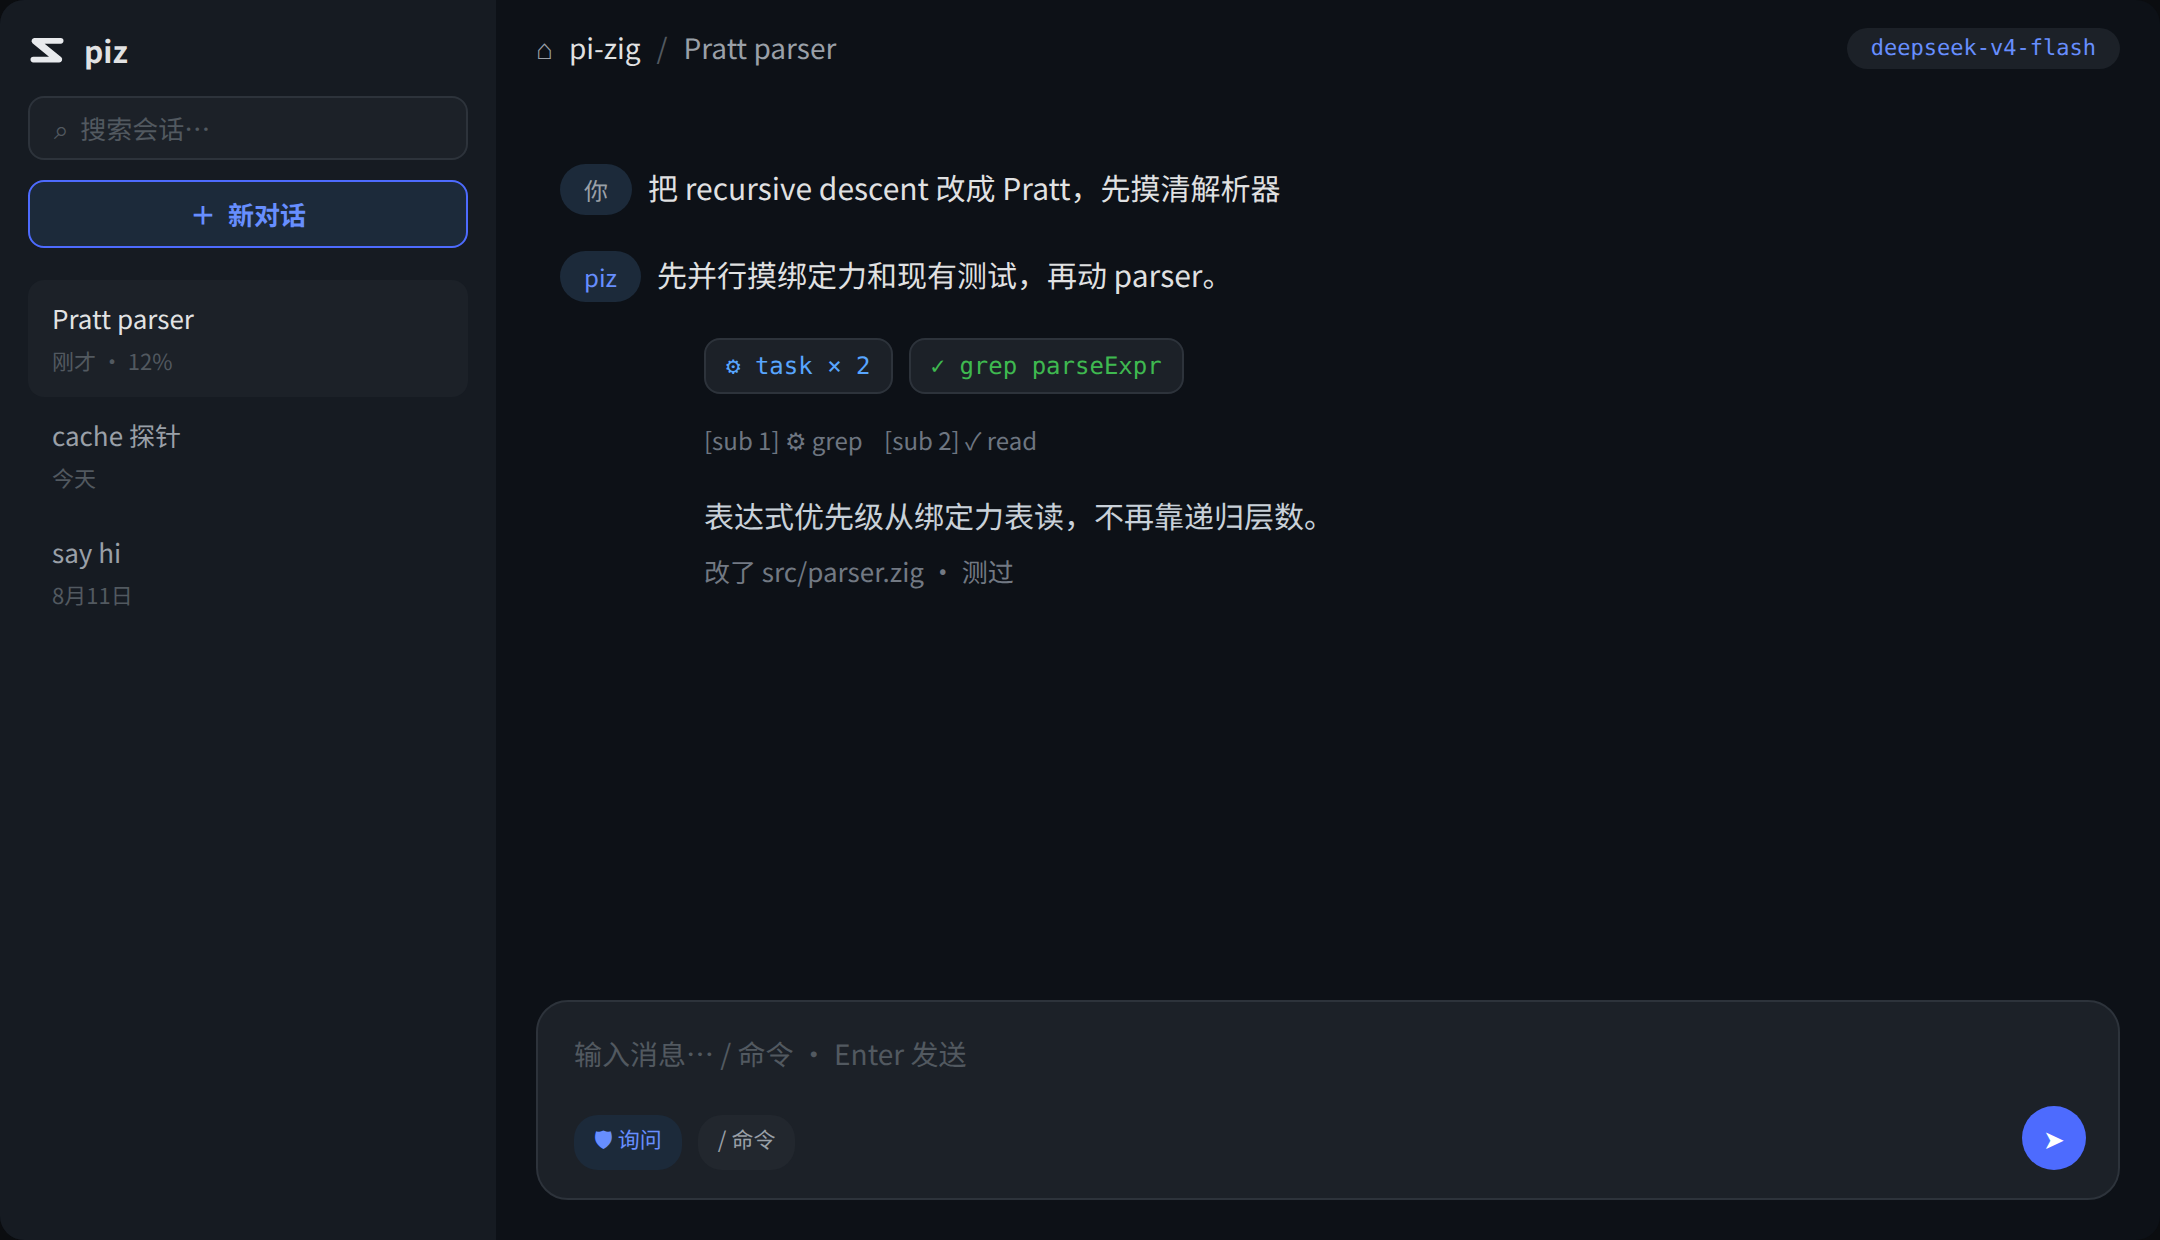
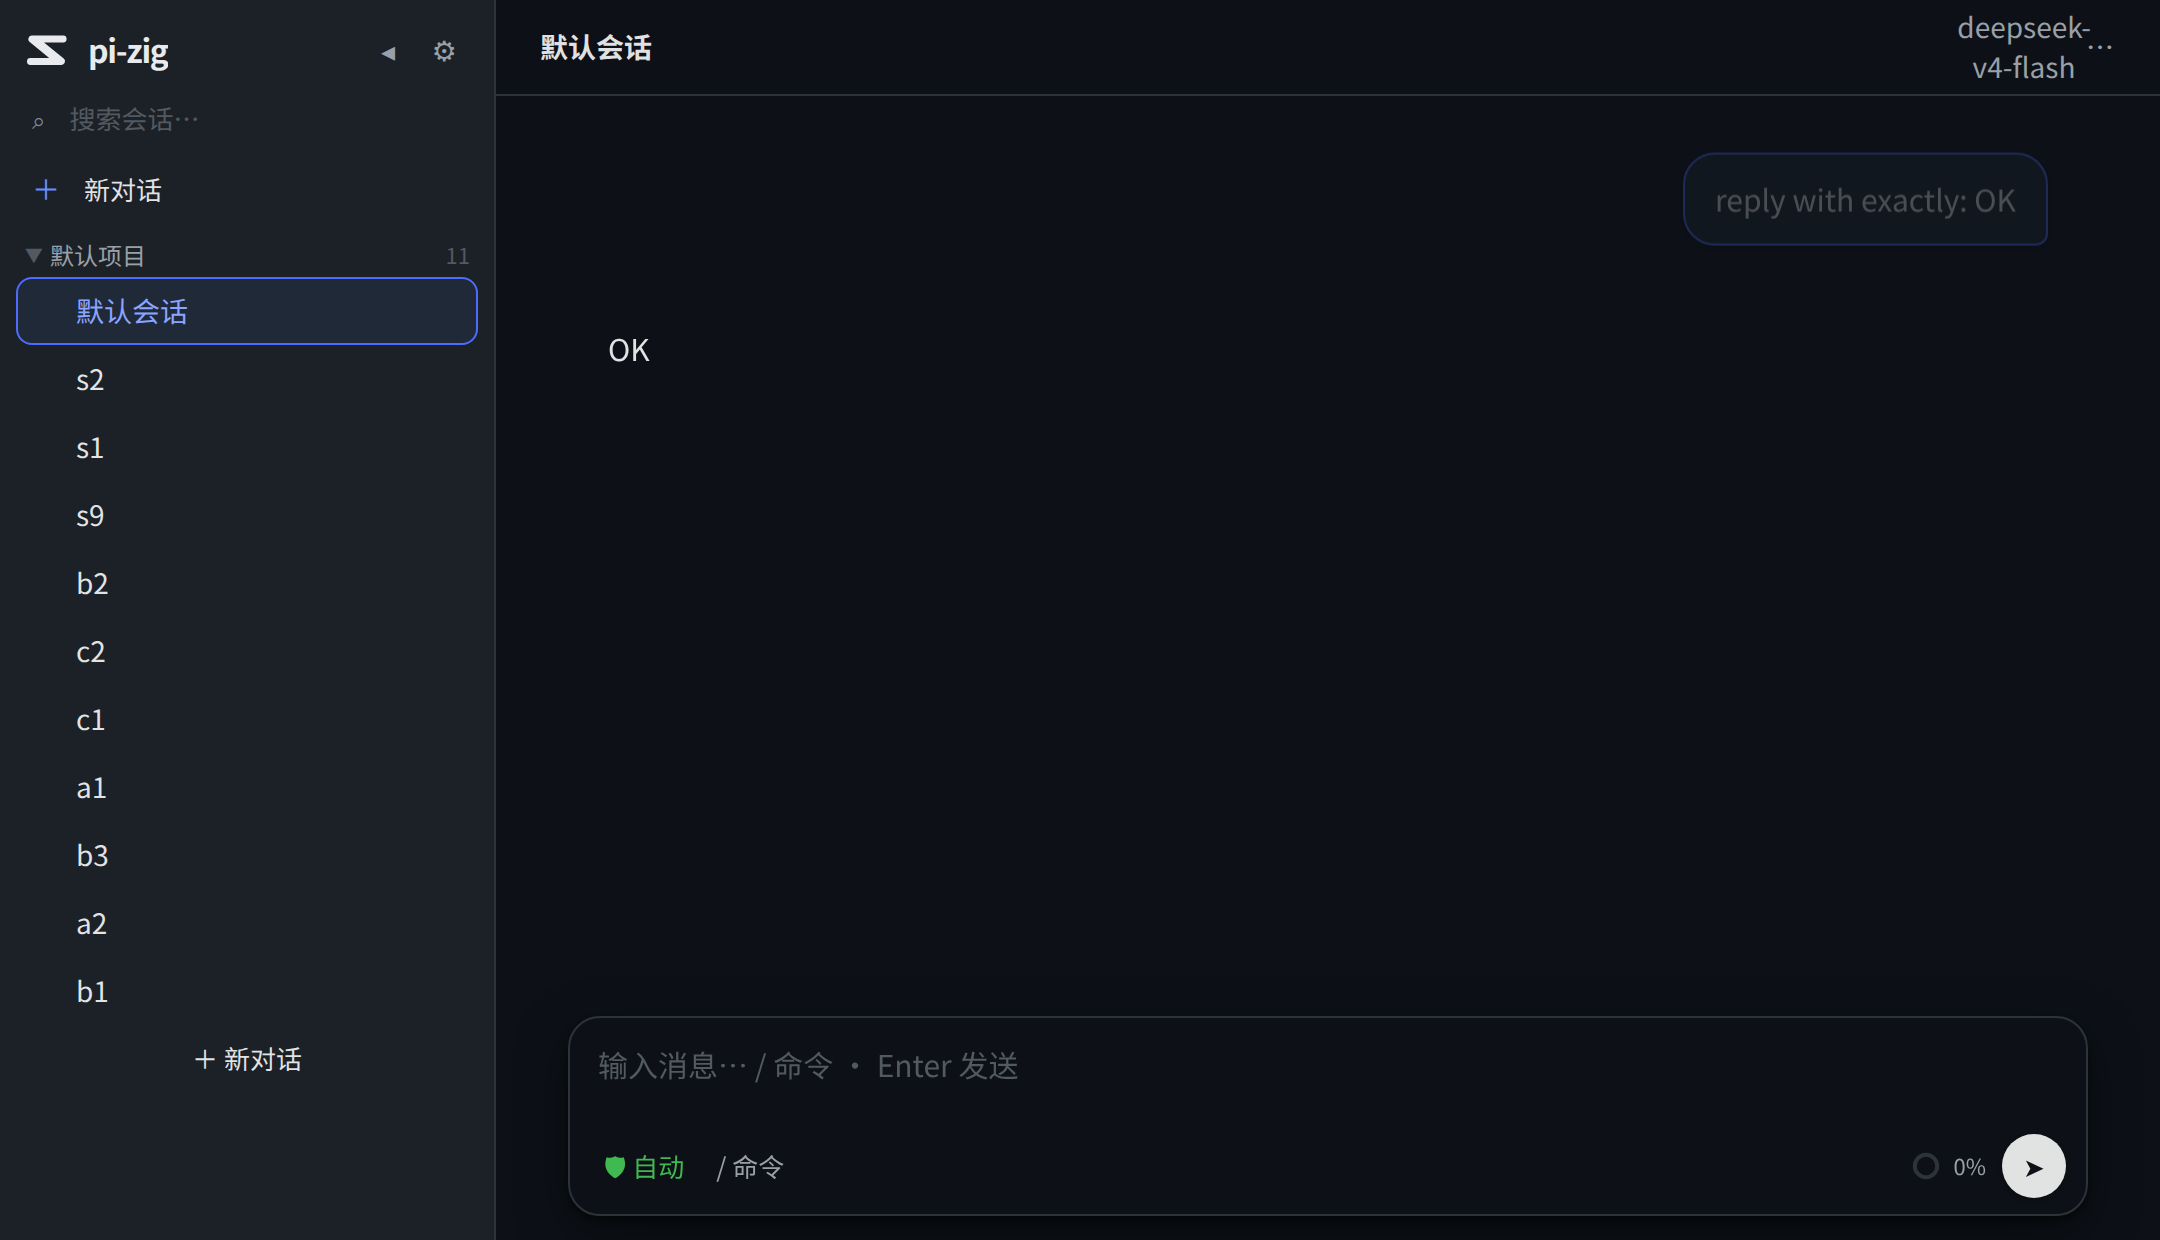
界面按那套审美改真 TUI / Web
权限门两行带色键,提示符用品牌蓝;Web 去掉输入框光晕,
空态不再写「AI 协作者」。web.png 是跑着的 piz web 截的。

diff --git a/src/webui.html b/src/webui.html
@@ -275,7 +275,7 @@
       ::-webkit-scrollbar-thumb:hover {
         background: var(--color-accent-bd);
       }
-      @keyframes kimi-bubble-in {
+      @keyframes bubble-in {
         from {
           opacity: 0;
           transform: translateY(6px);
@@ -886,7 +886,7 @@
       .empty-logo {
         width: 34px;
         height: 25px;
-        color: inherit;
+        color: var(--color-accent);
       }
       .empty-hint-title {
         font-size: 26px;
@@ -940,7 +940,7 @@
         box-shadow: var(--shadow-xs);
         white-space: pre-wrap;
         word-break: break-word;
-        animation: kimi-bubble-in 0.24s ease-out both;
+        animation: bubble-in 0.18s ease-out both;
       }
       .undo-chip {
         margin-top: 4px;
@@ -1340,22 +1340,6 @@
         padding: 8px 20px max(12px, env(safe-area-inset-bottom));
         position: relative;
       }
-      #cmp::before {
-        content: "";
-        position: absolute;
-        left: 50%;
-        bottom: 8px;
-        width: min(720px, 92%);
-        height: 160px;
-        transform: translateX(-50%);
-        background: radial-gradient(
-          ellipse at center,
-          rgba(77, 107, 254, 0.1),
-          transparent 70%
-        );
-        pointer-events: none;
-        z-index: 0;
-      }
       #cmp > * {
         position: relative;
         z-index: 1;
@@ -1371,7 +1355,7 @@
         flex: 1;
         position: relative;
         border: 1px solid var(--color-line);
-        border-radius: 22px;
+        border-radius: 16px;
         background: var(--bg);
         box-shadow: var(--shadow-md);
         transition:
@@ -2137,10 +2121,19 @@
         display: flex;
         flex-wrap: wrap;
         justify-content: center;
-        gap: 10px 16px;
-        margin-top: 14px;
+        gap: 8px;
+        margin-top: 18px;
         font-size: 12px;
         color: var(--color-text-muted);
+      }
+      .empty-keys span {
+        display: inline-flex;
+        align-items: center;
+        gap: 6px;
+        padding: 4px 10px;
+        border-radius: 999px;
+        background: var(--color-surface);
+        border: 1px solid var(--color-line);
       }
       kbd {
         display: inline-block;
@@ -4402,7 +4395,7 @@
         '<div class="empty-headline">' +
         '<svg class="empty-logo" viewBox="0 0 24 18" fill="currentColor" xmlns="http://www.w3.org/2000/svg" aria-hidden="true"><path d="M2.4 1.8h17.2a1.7 1.7 0 0 1 0 3.4H10l10 8.2A1.8 1.8 0 0 1 18.65 16.45H3.2a1.7 1.7 0 0 1 0-3.4h9.4L2.7 4.9A1.8 1.8 0 0 1 4.1 1.8z"/></svg>' +
         '<span class="empty-hint-title">piz</span></div>' +
-        '<div class="empty-hint-text">与终端 AI 协作者对话</div>' +
+        '<div class="empty-hint-text">读、改、跑。默认会问你一声。</div>' +
         '<div class="empty-keys"><span><kbd>/</kbd> 命令</span><span><kbd>Ctrl</kbd> <kbd>K</kbd> 搜会话</span><span><kbd>Enter</kbd> 发送</span></div>';
       const wrap = $("wrap");
       if (!th.children.length) {

diff --git a/README.md b/README.md
@@ -10,12 +10,12 @@
 <p align="center">
   <img src="docs/images/tui.png" width="720" alt="piz 交互模式：状态栏、子 agent、权限门">
 </p>
-<p align="center"><sub>交互模式。状态栏带上下文占用和 cache 命中；子 agent 进 8 线程池，中间过程能看见；工具默认逐次询问。</sub></p>
+<p align="center"><sub>交互模式。状态栏带占用和 cache；子 agent 进池；工具默认逐次问。[y] 允许 [n] 拒绝 [a] 本会话总是 [s] 跳过。</sub></p>
 
 <p align="center">
   <img src="docs/images/web.png" width="720" alt="piz Web UI：侧栏会话、工具卡片、输入框">
 </p>
-<p align="center"><sub><code>piz web</code>。单进程 HTTP + SSE，页面编进二进制。URL 带一次性 token。</sub></p>
+<p align="center"><sub><code>piz web</code>，这张是跑着截的。单进程 HTTP + SSE，页面编进二进制。</sub></p>
 
 核心只做一条链路：组消息 → 调模型 → 跑工具 → 压缩。其余是编译期插件表，随二进制发布。不用的工具不进请求——少付 schema，也不打乱 prompt 前缀缓存。
 

diff --git a/docs/usage.md b/docs/usage.md
@@ -29,8 +29,8 @@ piz -n           # 新会话，不续载
 **工具执行默认逐次询问。** 每次工具调用会弹出授权提示：
 
 ```
-? bash: cargo test --lib
-  [y] 允许  [n] 拒绝  [a] 本会话总是允许  [s] 跳过本次
+? bash  {"command":"zig test src/parser.zig"}
+  [y] 允许  [n] 拒绝  [a] 本会话总是  [s] 跳过
 ```
 
 用 `-x` 关掉询问（工具自动执行），用 `-r` 走只读模式（一个工具都不发，连 `read` 也没有 —— 见 [Tools](tools.md)）。
